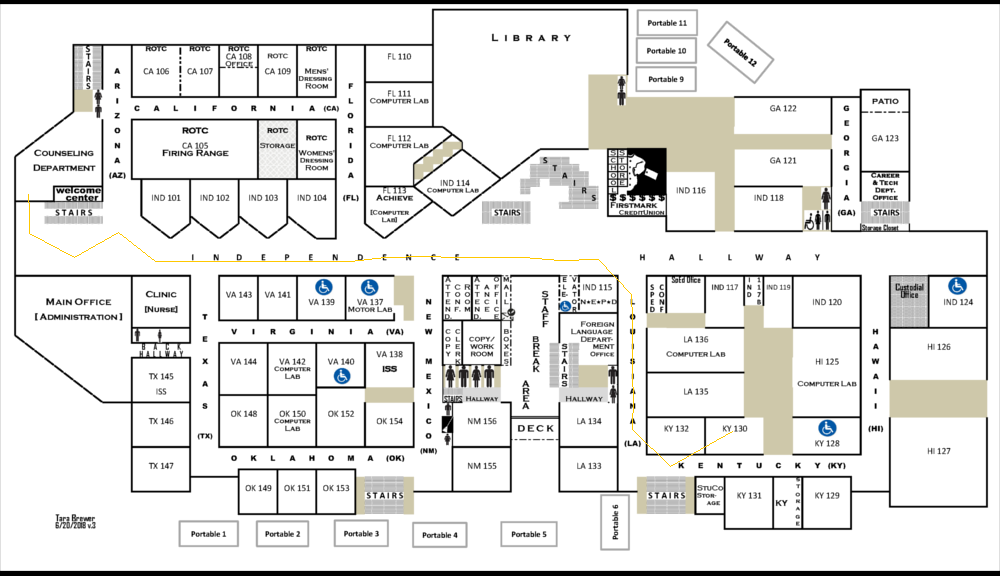
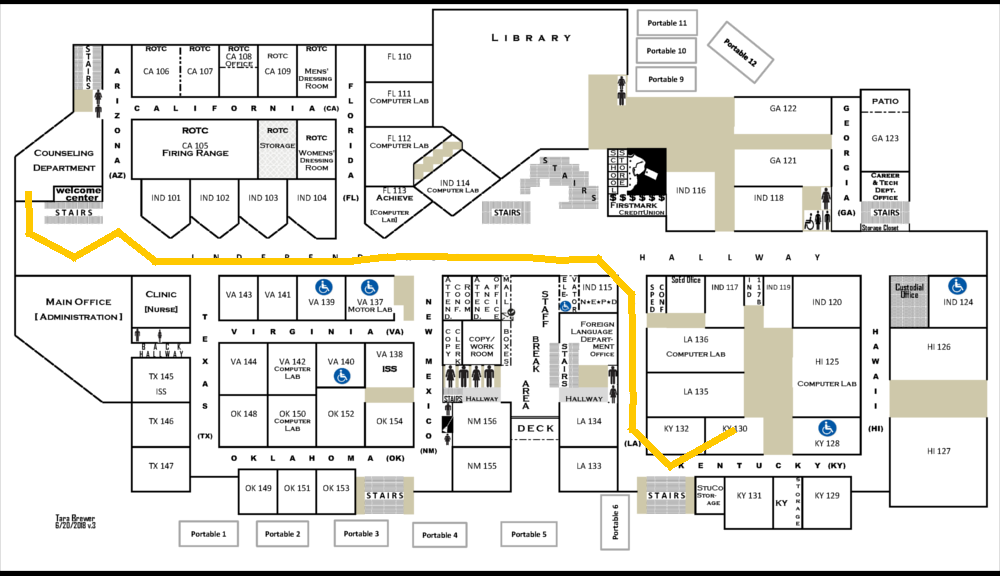
increase line thickness

diff --git a/src/pkg2dmapping/Cluster.java b/src/pkg2dmapping/Cluster.java
@@ -1,5 +1,6 @@
 package pkg2dmapping;
 
+import java.awt.BasicStroke;
 import java.awt.Color;
 import java.awt.Dimension;
 import java.awt.Graphics2D;
@@ -318,12 +319,13 @@ public class Cluster extends ArrayList<Node>{
     public void drawRoute(ArrayList<Node> Route) throws IOException{
         int[][] route = new int[Route.size()][2];
         Graphics2D canvas = this.writableEnvironment.createGraphics();
+        canvas.setStroke(new BasicStroke(7));
         for (int i = 0; i < Route.size(); i++) {
             Node N = Route.get(i);
             Dimension D = coordMap.get(new Dimension(N.x() / 10, N.y() / 10));
-            System.out.println(D);
             route[i][0] = D.width;
             route[i][1] = D.height;
+//            System.out.println("[" + N.x() + "," + N.y() + "] -> " + D.toString());
         }
         canvas.setColor(Color.orange);
         for (int i = 0; i < route.length - 1; i++) {
